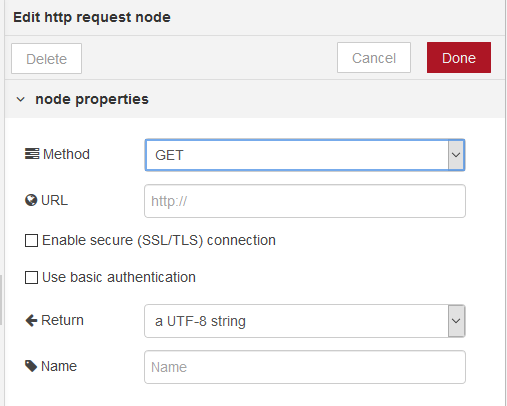
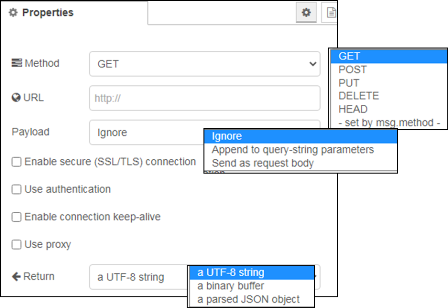
мережні протоколи

Changed region(s): [[0.0, 0.0, 1.0, 1.0], [0.2812, 0.7597, 0.5, 0.8182]]

diff --git a/http/httprequests.md b/http/httprequests.md
@@ -2,48 +2,66 @@
 
 ## HTTP requests (робота з клієнтськими запитами)
 
-![img](media/http_request.png) Відправляє запити HTTP і повертає відповідь на нього (рис.8.1). В якості вхідного значення приймає наступні властивості повідомлень:
-
-- url (string) – якщо не  сконфігуроване в вузлі, ця опціональна властивість виставляє url для запиту.
-- method (string) - якщо не     сконфігуроване в вузлі, ця опціональна властивість виставляє метод HTTP для запиту. Повинно     бути `GET`,     `PUT`,     `POST`,     `PATCH`     бо `DELETE`.
-- headers (object) – виставляє HTTP заголовки в запиті 
-- cookies (object) – якщо вказані,     можуть бути використані для відправки куків з запитом
-- payload – виставляє тіло для запиту
-- rejectUnauthorized – якщо     виставлено в `false` дозволяє робити запити на сайти https, які     використовують сертифікати, які підписуються самостійно 
-- followRedirects – якщо виставлено в` false`     запобігає наступним перенаправленням (HTTP 301).` true` за замовчуванням
+![img](media/http_request.png) Відправляє запити HTTP і повертає відповідь на нього (рис.8.1). 
 
 ![img](media/8_1.png)
 
 рис.8.1. Налаштування вузлу HTTP requests
 
+В якості вхідного значення приймає наступні властивості повідомлень:
+
+- `url` (string) – якщо не  сконфігуроване в вузлі, ця опціональна властивість виставляє url для запиту.
+- `method` (string) - якщо не     сконфігуроване в вузлі, ця опціональна властивість виставляє метод HTTP для запиту. Повинно бути `GET`, `PUT`, `POST`, `PATCH` або `DELETE`.`
+- `headers` (object) – виставляє HTTP заголовки в запиті 
+- `cookies` (object) – якщо вказані, можуть бути використані для відправки куків з запитом
+- `payload` – виставляє тіло для запиту
+- `rejectUnauthorized` – якщо     виставлено в `false` дозволяє робити запити на сайти https, які     використовують сертифікати, які підписуються самостійно 
+- `followRedirects` – якщо виставлено в ` false` запобігає наступним перенаправленням (HTTP 301).` true` за замовчуванням
+
 На виході формує:
 
-- payload (string | object | buffer)     – тіло відповіді. Вузол може бути     налаштований так, щоб повернути тіло у вигляді string,     спробувати розпарсити його як рядок JSON або залишити його у вигляді     двійкового буфера. 
-- statusCode (number)     - код стану відповіді або код     помилки, якщо запит не може бути завершений.
-- headers (object) – об’єкт, що     містить заголовки відповідей 
-- responseUrl (string)     - у випадку, якщо під час обробки запиту відбулися будь-які     перенаправлення, це властивість є останньою адресою, що переадресовується.     В іншому випадку це URL оригінального запиту.
-- responseCookies (object)     - якщо відповідь включає файли cookie, ця властивість є об'єктом пар     імені/значення для кожного cookie.
+- `payload` (string | object | buffer) –- тіло відповіді. Вузол може бути налаштований так, щоб повернути тіло у вигляді string, спробувати розпарсити його як рядок JSON або залишити його у вигляді     двійкового буфера. 
+- `statusCode` (number) -- код стану відповіді або код помилки, якщо запит не може бути завершений.
+- `headers` (object) –- об’єкт, що містить заголовки відповідей 
+- `responseUrl` (string) -- у випадку, якщо під час обробки запиту відбулися будь-які перенаправлення, це властивість є останньою адресою, що переадресовується. В іншому випадку це URL оригінального запиту.
+- `responseCookies` (object) -- якщо відповідь включає файли cookie, ця властивість є об'єктом пар     імені/значення для кожного cookie.
+- `redirectList`(*array*) -- якщо запит було перенаправлено один або кілька разів, накопичена інформація буде додана до цього ресурсу. `location` - наступне місце переадресації. `cookies` -- це файли cookie, повернені з джерела переадресації
 
-Якщо сконфігуровано у вузлі, властивість URL може містити теги [mustache-style](http://mustache.github.io/mustache.5.html). Вони дозволяють створювати URL, використовуючи значення вхідного повідомлення. Наприклад, якщо URL-адресу встановлено `example.com/{{{topic}}}` в це місце буде автоматично додано` msg.topic`. Використання {{{...}}} запобігає вилученню mustache із символів на зразок /&  і т.д.
+Якщо сконфігуровано у вузлі, властивість URL може містити теги [mustache-style](../base/mustach). Вони дозволяють створювати URL, використовуючи значення вхідного повідомлення. Наприклад, якщо URL-адресу встановлено `example.com/{{{topic}}}` в це місце буде автоматично додано` msg.topic`. Використання `{{{...}}}` запобігає вилученню з mustache символів на зразок `/`, `&`  і т.д.
 
-Примітка: Якщо запускається за проксі-сервері, необхідно встановити стандартну змінну середовища `http_proxy=...` і перезапустити Node-RED.
+Вузол необов'язково може автоматично кодувати `msg.payload` як параметри рядка запиту для GET-запиту, в цьому випадку ` msg.payload` повинен бути об'єктом.
+
+Примітка: Якщо запускається за проксі-сервері, необхідно встановити стандартну змінну середовища `http_proxy=...` і перезапустити Node-RED, або використовувати вузол [Proxy Configuration](httpproxy.md).  Якщо було встановлено вузол Proxy Configuration, конфігурація цього вузлу має перевагу перед змінною середовища.
+
+### Використання кількох вузлів HTTP Request
 
 Для того щоб використовувати більше одного з таких вузлів в тому самому потоці, необхідно дотримуватися властивості `msg.headers`. Перший вузол встановить цю властивість з заголовками відповіді. Тоді наступний вузол буде використовувати ці заголовки для свого запиту - це звичайно не правильно. Якщо властивість `msg.headers` залишається незмінною між вузлами, вона буде ігноруватися другим вузлом. Щоб встановити користувальницькі заголовки, `msg.headers` слід спочатку видалити або скинути порожнім об'єктом: `{}`.
 
-Властивість `cookies`, передана вузлу, повинна бути об'єктом з парої імя/значення. Значення для встановлення значення cookie може бути string, або об'єктом з єдиною властивістю `value`.
+### Обробка Cookie 
+
+Властивість `cookies`, передана вузлу, повинна бути об'єктом з парою ім'я/значення. Значення для встановлення значення cookie може бути string, або об'єктом з єдиною властивістю `value`.
 
 Будь-які файли cookie, повернені запитом, передаються назад у властивості `responseCookies`.
 
+### Обробка Content type
+
 Якщо `msg.payload` є Object, вузол буде автоматично встановлювати тип контенту запиту в `application/json` і кодувати тіло відповідним чином.
 
-Для кодування запиту як форму даних `msg.headers["content-type"]` буде встановлюватися як `application/x-www-form-urlencoded`.
+Для кодування запиту як форми даних, `msg.headers["content-type"]` буде встановлюватися як `application/x-www-form-urlencoded`.
 
 ### File Upload   
 
-To perform a file upload, `msg.headers["content-type"]` should be set to `multipart/form-data`        and the `msg.payload` passed to the node must be an object with the following structure: 
+Для виконання запиту завантаження файлу, `msg.headers["content-type"]` слід встановити на " `multipart/form-data` , а `msg.payload` , переданий у вузол, повинен бути об'єктом із такою структурою:
 
 ```json
-{    "KEY": {        "value": FILE_CONTENTS,        "options": {            "filename": "FILENAME"        }    } }
+{
+    "KEY": {
+        "value": FILE_CONTENTS,
+        "options": {
+            "filename": "FILENAME"
+        }
+    }
+}
 ```
 
-   The values of `KEY`, `FILE_CONTENTS` and `FILENAME`    should be set to the appropriate values.
+Значення `KEY`, `FILE_CONTENTS` та `FILENAME` слід встановити у відповідні значення.

diff --git a/README.md b/README.md
@@ -54,6 +54,8 @@
 
 20. [Боти](bots/README.md) <span class="load"> </span>
 
+21. [TCP та UDP](tcp/README.md)
+
     
 
 # Перелік вузлів
@@ -92,25 +94,25 @@
 
 ### Мережні (network)
 
-| Вузол                             | Призначення                                                  | Примітка  |
-| --------------------------------- | ------------------------------------------------------------ | --------- |
-| ![](media/mqtt-in.png)            | [Mqtt in](mqtt/mqttin.md) - підключається до брокера MQTT та підписується на повідомлення з зазначеної теми | 2019      |
-| ![](media/mqtt-out.png)           | [Mqtt out](mqtt/mqttout.md) підключається до брокера MQTT та публікує повідомлення | 2019      |
-| ![](media/mqtt-broker.png)        | [Mqtt-broker](mqtt/mqttbroker.md) конфігураційний вузол для Mqtt-broker | 2019      |
-| ![](media/http-in.png)            | [Http-in](http/httpin.md) HTTP-сервер - обробка вхідного повідомлення | 2019      |
-| ![](media/http-response.png)      | [Http response](http/httpresponse.md) HTTP-сервер - формування вихідного повідомлення | 2019      |
-| ![](media/http-request.png)       | [Http request](http/httprequests.md) робота з клієнтськими запитами до HTTP-серверів | 2019      |
-| ![](media/http-proxy.png)         | [Http proxy]()                                               | **to do** |
-| ![](media/tls-config.png)         | [Tls-config]()                                               | **to do** |
-| ![](media/websocket-in.png)       | [Websocket in](websocket/websocketin.md) вхідний вузол WebSocket | 2019      |
-| ![](media/websocket-out.png)      | [Websocket out ](websocket/websocketout.md) вихідний вузол WebSocket | 2019      |
-| ![](media/websocket-listener.png) | [Websocket-listener]()                                       | **to do** |
-| ![](media/websocket-client.png)   | [Websocket-client]()                                         | **to do** |
-| ![](media/tcp-in.png)             | [TCP in]()                                                   | **to do** |
-| ![](media/tcp-out.png)            | [TCP out]()                                                  | **to do** |
-| ![](media/tcp-request.png)        | [TCP request]()                                              | **to do** |
-| ![](media/udp-in.png)             | [UDP in]()                                                   | **to do** |
-| ![](media/udp-out.png)            | [UPD out]()                                                  | **to do** |
+| Вузол                             | Призначення                                                  | Примітка |
+| --------------------------------- | ------------------------------------------------------------ | -------- |
+| ![](media/mqtt-in.png)            | [Mqtt in](mqtt/mqttin.md) - підключається до брокера MQTT та підписується на повідомлення з зазначеної теми | 2019     |
+| ![](media/mqtt-out.png)           | [Mqtt out](mqtt/mqttout.md) підключається до брокера MQTT та публікує повідомлення | 2019     |
+| ![](media/mqtt-broker.png)        | [Mqtt-broker](mqtt/mqttbroker.md) конфігураційний вузол для Mqtt-broker | 2019     |
+| ![](media/http-in.png)            | [Http-in](http/httpin.md) HTTP-сервер - обробка вхідного повідомлення | 2019     |
+| ![](media/http-response.png)      | [Http response](http/httpresponse.md) HTTP-сервер - формування вихідного повідомлення | 2019     |
+| ![](media/http-request.png)       | [Http request](http/httprequests.md) робота з клієнтськими запитами до HTTP-серверів | 07.2020  |
+| ![](media/http-proxy.png)         | [Http proxy](http/httpproxy.md) параметри конфігурації для HTTP-проксі | 07.2020  |
+| ![](media/tls-config.png)         | [Tls-config](http/tlscfg.md) конфігураційні опції для TLS підключень | 07.2020  |
+| ![](media/websocket-in.png)       | [Websocket in](websocket/websocketin.md) вхідний вузол WebSocket | 2019     |
+| ![](media/websocket-out.png)      | [Websocket out ](websocket/websocketout.md) вихідний вузол WebSocket | 2019     |
+| ![](media/websocket-listener.png) | [Websocket-listener](websocket/README.md#websocket-listener) для налаштування серверного ресурсу WebSocket | 2019     |
+| ![](media/websocket-client.png)   | [Websocket-client](websocket/README.md#websocket-client) для налаштування з’єднання клієнтського вузлу WebSocket | 2019     |
+| ![](media/tcp-in.png)             | [TCP in](tcp/tcp-in.md) забезпечує отримання вхідних даних з порта TCP | 07.2020  |
+| ![](media/tcp-out.png)            | [TCP out](tcp/tcp-out.md) забезпечує відправлення вихідного повідомлення на TCP-порт. | 07.2020  |
+| ![](media/tcp-request.png)        | [TCP request](tcp/tcp-request.md) для відправки клієнтського запиту TCP та очікування відповіді | 07.2020  |
+| ![](media/udp-in.png)             | [UDP in](tcp/udp-in.md) для отримання повідомлень по UDP     | 07.2020  |
+| ![](media/udp-out.png)            | [UPD out](tcp/udp-out.md) для відправки повідомлень по UDP   | 07.2020  |
 
 ### Послідовності (sequence)
 

diff --git a/tcp/tcp-request.md b/tcp/tcp-request.md
@@ -1,0 +1,24 @@
+[<- На головну](../)  [Розділ](README.md)
+
+## TCP Request
+
+![](media/tcp-request.png)Простий вузол для відправки клієнтського запиту TCP та очікування відповіді.
+
+ Запит відправляється через  `msg.payload` на порт TCP-сервера, після чого очікується відповідь.
+
+![](media/tcprequest_cfg.png)
+
+Connects, sends the "request", and reads the "response". It can either count a number of returned characters into a fixed buffer, match a specified character before returning, wait a fixed timeout from first reply and then return, sit and wait for data, or send then close the connection immediately, without waiting for a reply.
+
+Підключається, надсилає "запит" і читає "відповідь". `Return` налаштовується на різні режими очікування відповіді для видачі отриманих даних:
+
+- він може або підрахувати кількість символів у фіксованому буфері (`fixed number of charts`), 
+- очікувати вказаний символ перед тим як повернути результат(`when character received`)
+- чекати фіксований час очікування від першої відповіді, а потім повернути результат(`after a fixed timeout`),
+- сидіти і чекати даних (`never`) і ніколи не закривати зєднання  
+- відправляти запит, а потім негайно закривати з'єднання, не чекаючи відповідь.
+
+Відповідь буде виводитися у  `msg.payload` як буфер, тому ви, можливо, захочете перетворити його у рядок з використанням методу `.toString ()`.
+
+Якщо ви залишаєте хост або порт tcp порожнім, їх потрібно встановити, використовуючи властивості `msg.host` та ` msg.port` у кожному повідомленні, надісланому до вузла.
+

diff --git a/tcp/tcp-out.md b/tcp/tcp-out.md
@@ -1,0 +1,19 @@
+[<- На головну](../)  [Розділ](README.md)
+
+## TCP out
+
+![](media/tcp-out.png)Забезпечує відправлення вихідного повідомлення на TCP-порт. 
+
+Можна або підключитися до віддаленого порту TCP (`Type=Connect to`), приймати вхідні з'єднання (`Type=Listen on`) або відповідати на повідомлення, отримані від вузла TCP In (`Type=Reply to TCP`).
+
+![](media/tcpout_cfg.png)
+
+Надсилається лише `msg.payload`.
+
+Якщо  `msg.payload` - рядок, що містить кодування бінарних даних Base64, опція `decode Base64` призведе до того, що вона буде перетворена назад у двійкові дані перед відправкою.
+
+Якщо `msg._session` немає, корисне навантаження надсилається **всім** підключеним клієнтам.
+
+**Примітка.** У деяких системах вам може знадобитися root або адміністратор для доступу до портів нижче 1024.
+
+При підключенні до віддаленого порту вузол для цього підключення буде тільки відправляти вихідні повідомлення. При необхідності підключення в режимі запит/відповідь варто використовувати вузол [TCP request](tcp-request.md) 

diff --git a/websocket/README.md b/websocket/README.md
@@ -7,11 +7,15 @@
 
 ## Налаштування клієнтських і серверних з’єднань 
 
+### WebSocket-listener
+
 Для налаштування серверного ресурсу WebSocket для Node-RED використовуються конфігураційні вузли WebSocket-listener (рис.9.1). Вхідний порт для з’єднання буде тим самим, що і порт для конфігурування/WEB, тобто типово, 1880. Тому в конфігураційному вузлі вказується тільки частина URI що вказує розміщення ресурсу на сервері.  
 
 ![img](media/9_1.png)
 
 рис.9.1.Конфігураційний вузол WebSocket-listener
+
+### WebSocket- client
 
 Для налаштування з’єднання клієнтського вузлу WebSocket з Node-RED використовуються конфігураційні вузли WebSocket-client (рис.9.2). Для означення схеми на початку URL вказується ws:// для звичайного або wss:// для захищеного з’єднання. Далі вказується повний шлях до ресурсу, включаючи домен (або IP), порт (якщо не 80) та інша частина URL.   
 

diff --git a/tcp/udp-out.md b/tcp/udp-out.md
@@ -1,0 +1,15 @@
+[<- На головну](../)  [Розділ](README.md)
+
+## UDP out 
+
+![](media/udp-out.png)Цей вузол відправляє `msg.payload` на призначений хост і порт UDP. 
+
+Підтримується багатоадресна передача.
+
+![](media/udpout_cfg.png)
+
+Ви також можете використовувати `msg.ip` і ` msg.port` для встановлення значень призначення, але статично налаштовані значення мають перевагу.
+
+Якщо ви вибрали широкомовлення (broadcast), то встановіть адресу на ip адресу локального мовлення, або, можливо, спробуйте 255.255.255.255, яка є глобальною адресою широкомовної передачі.
+
+**Примітка**: У деяких системах вам може знадобитися мати root, щоб використовувати порти нижче 1024 та/або широкомолвення.

diff --git a/tcp/tcp-in.md b/tcp/tcp-in.md
@@ -1,0 +1,13 @@
+[<- На головну](../)  [Розділ](README.md)
+
+## TCP in 
+
+![](media/tcp-in.png) Забезпечує отримання вхідних даних з порта TCP.
+
+Можна або підключитися до віддаленого порту TCP (`Type = Connect To`), або прийняти вхідні з'єднання (`Type = Liasten On`).
+
+![](media/tcpin_cfg.png)
+
+**Примітка.** У деяких системах вам може знадобитися root або адміністратор для доступу до портів нижче 1024.
+
+При підключенні до віддаленого порту вузол для цього підключення буде тільки приймати вхідні повідомлення. При необхідності підключення в режимі запит/відповідь варто використовувати вузол [TCP request](tcp-request.md) 

diff --git a/tcp/udp-in.md b/tcp/udp-in.md
@@ -1,0 +1,11 @@
+[<- На головну](../)  [Розділ](README.md)
+
+## UDP in
+
+![](media/udp-in.png)Вузол введення UDP, який виробляє `msg.payload`, що містить буфер, рядок або base64-кодований рядок. Підтримується багатоадресне отримування.
+
+![](media/udpin_cfg.png)
+
+Він також забезпечує передачу `msg.ip` та ` msg.port`, встановлені на ip-адресу та порт, з якого було отримано повідомлення.
+
+**Примітка**: У деяких системах вам може знадобитися root або адміністраторський доступ для використання портів нижче 1024 та/або широкомовлення.

diff --git a/http/httpproxy.md b/http/httpproxy.md
@@ -1,0 +1,11 @@
+[<- На головну](../)  [Розділ](README.md)
+
+## Http proxy 
+
+Параметри конфігурації для HTTP-проксі.  
+
+![](media/proxy_cfg.png)
+
+Під час доступу до хосту зі списку проігнорованих хостів (ignore hosts) жоден проксі не використовуватиметься.
+
+Про проксі-сервери можна прочитати [тут](https://uk.wikipedia.org/wiki/%D0%9F%D1%80%D0%BE%D0%BA%D1%81%D1%96-%D1%81%D0%B5%D1%80%D0%B2%D0%B5%D1%80) а про веб-проксі [тут](https://ru.wikipedia.org/wiki/%D0%92%D0%B5%D0%B1-%D0%BF%D1%80%D0%BE%D0%BA%D1%81%D0%B8).

diff --git a/tcp/README.md b/tcp/README.md
@@ -1,0 +1,9 @@
+[<- На головну](../)
+
+# 21. Вузли для роботи з TCP та UDP
+
+- [TCP In](tcp-in.md)<span class="load"> </span>
+- [TCP Out](tcp-out.md)<span class="load"> </span>
+- [TCP Request](tcp-request.md)<span class="load"> </span>
+- [UDP In](udp-in.md)<span class="load"> </span>
+- [UDP Out](udp-out.md)<span class="load"> </span>

diff --git a/http/tlscfg.md b/http/tlscfg.md
@@ -1,0 +1,8 @@
+[<- На головну](../)  [Розділ](README.md)
+
+## Tls config
+
+Конфігураційні опції для TLS підключень.
+
+![](media/tls_cfg.png)
+
